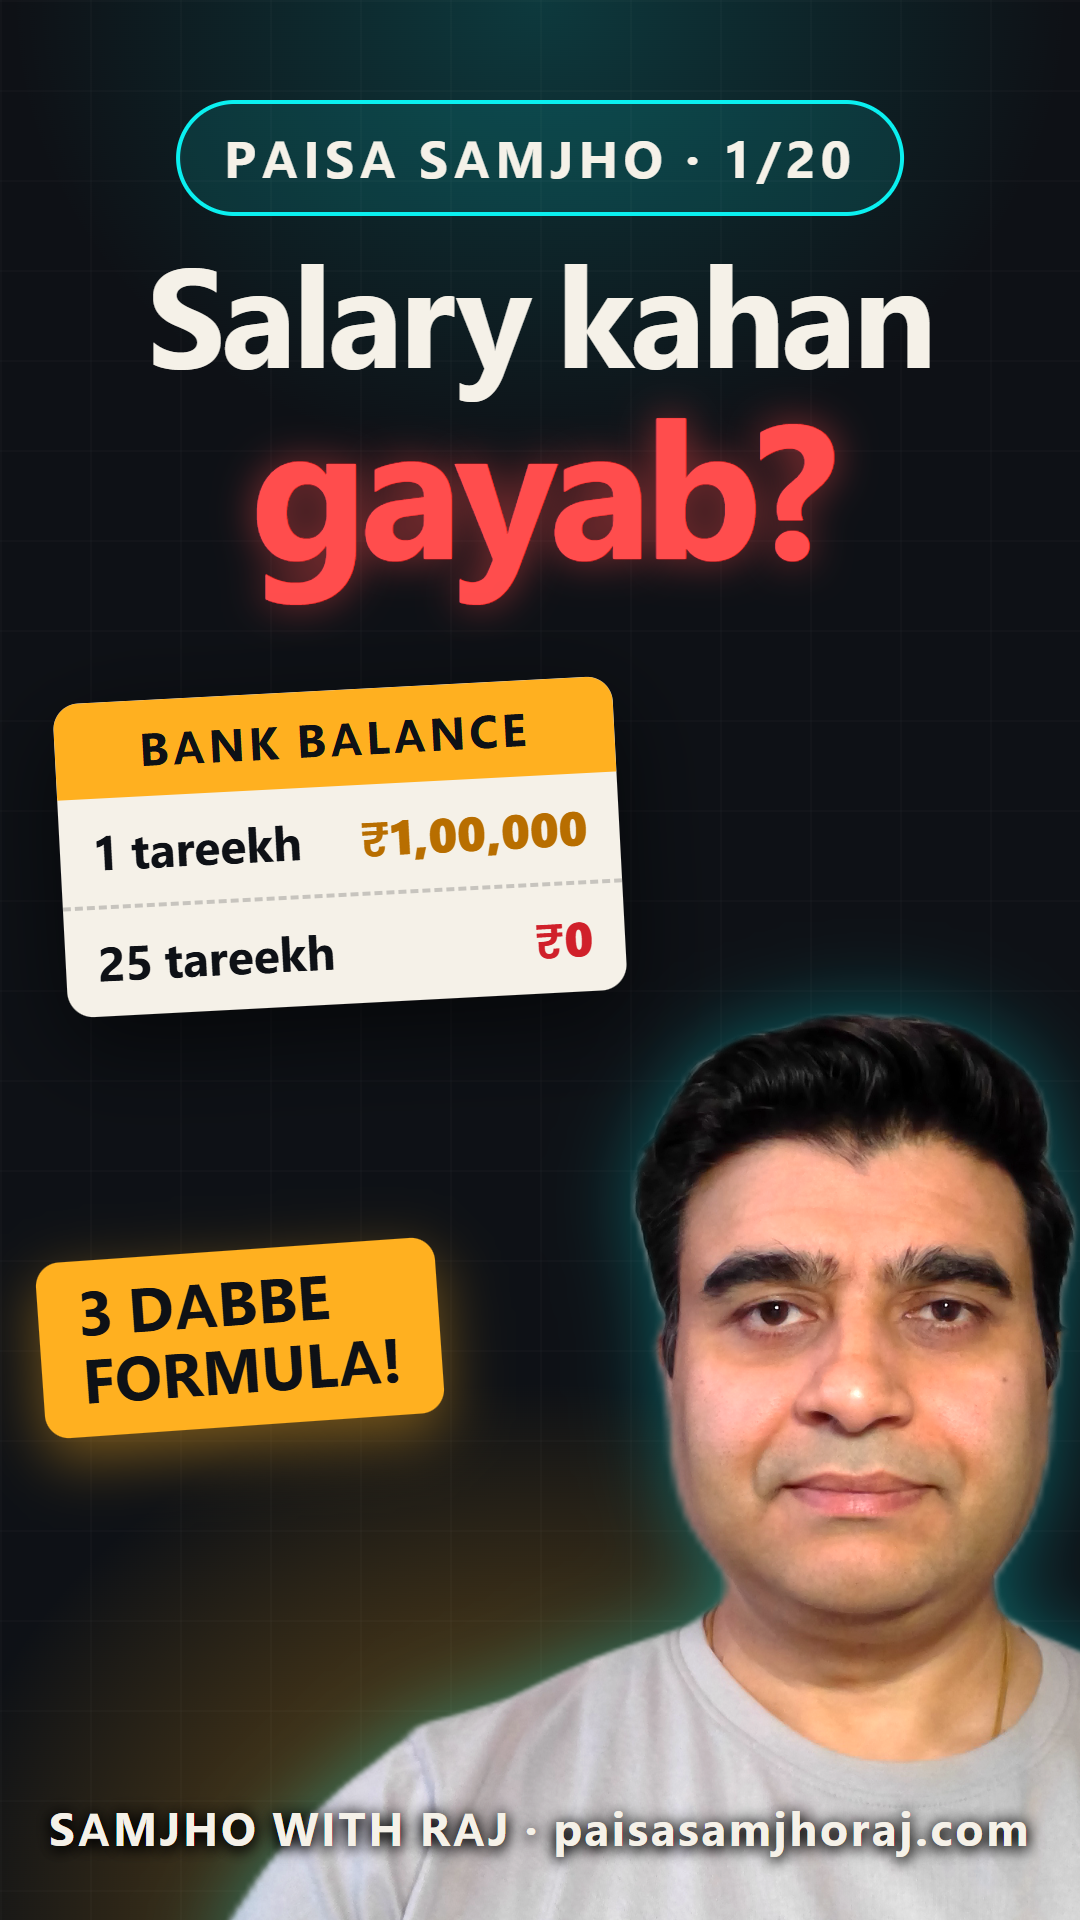
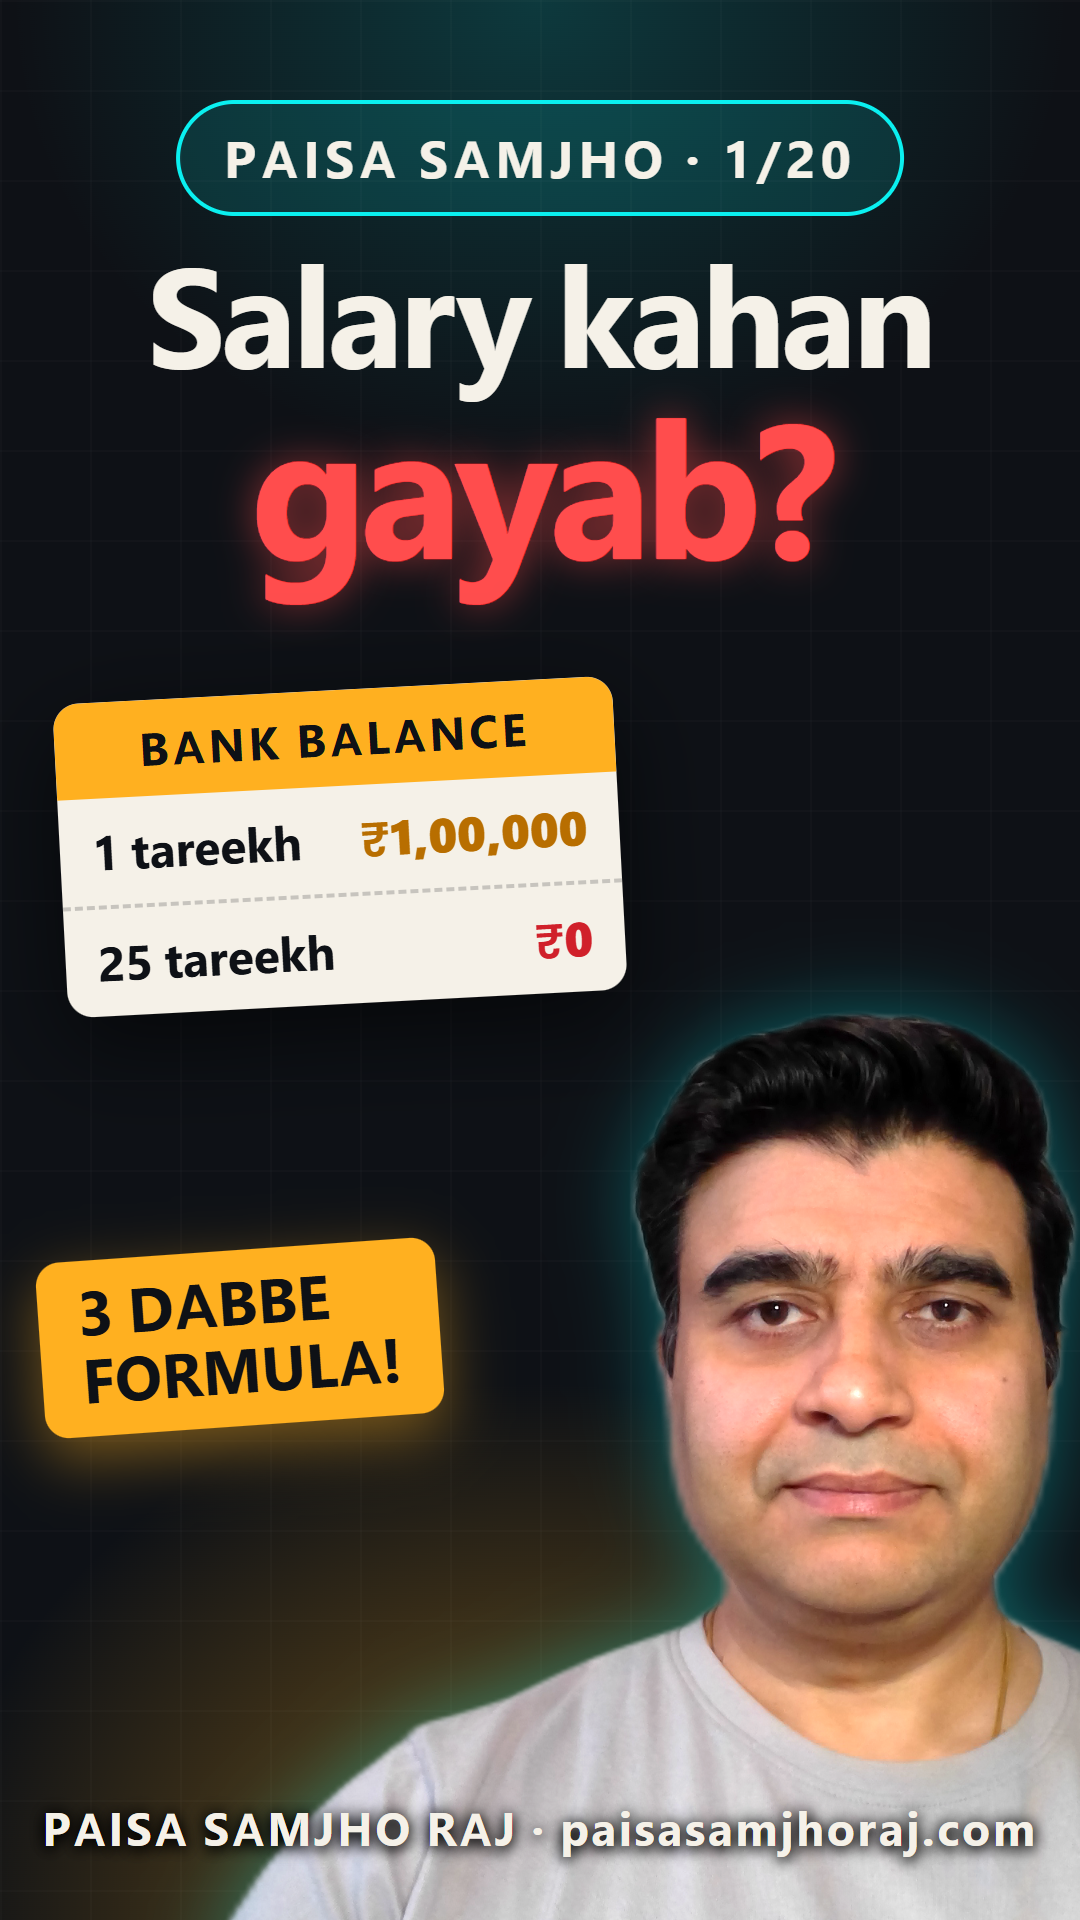
Paisa Samjho Raj channel: Short frame + cover rebrand, Part 1 re-upload kit (-psr renders), Ep 1 reshoot handles

Changed region(s): [[0.0306, 0.9375, 0.9778, 0.9688]]

diff --git a/videos/short-01/thumbnail/cover.html b/videos/short-01/thumbnail/cover.html
@@ -38,5 +38,5 @@
     <div class="row"><span>25 tareekh</span><b class="z">₹0</b></div></div>
   <img id="raj" src="img/raj-cutout.png">
   <div class="badge">3 DABBE<br>FORMULA!</div>
-  <div class="brand">SAMJHO WITH RAJ · paisasamjhoraj.com</div>
+  <div class="brand">PAISA SAMJHO RAJ · paisasamjhoraj.com</div>
 </body></html>

diff --git a/videos/ep01/build-short.py b/videos/ep01/build-short.py
@@ -101,7 +101,7 @@ scene("sE", 30.08, 39.80, '''
 <div id="e-p1" class="h pillx" style="left:120px;top:800px">✗ growth</div>
 <div id="e-p2" class="h pillx" style="left:400px;top:800px">✗ mehngai</div>
 <div id="e-p3" class="h pillx" style="left:700px;top:800px">✗ inflation</div>
-<div id="e-ep" class="h chip2" style="position:absolute;left:180px;top:960px">Asli kharcha: Episode 41 &amp; 46</div>
+<div id="e-ep" class="h chip2" style="position:absolute;left:180px;top:960px">Asli kharcha: Episode 41 &amp; 42</div>
 ''')
 js += ["rise('#e-x',30.3);", "rise('#e-t',30.8);", "rise('#e-p1',34.2);", "rise('#e-p2',35.9);", "rise('#e-p3',37.3);", "rise('#e-ep',38.2);"]
 cap("cE1", "Ye sirf jama rakam hai", {2: "cyan", 3: "cyan"}, 30.2, 34.0)
@@ -145,7 +145,7 @@ pt("p2", 2, "Par kya ye <b>kaafi</b> hai?", 12.04, 17.74)
 pt("p3", 3, "₹12 lakh = <b>sirf jama rakam</b>", 17.74, 39.80)
 pt("p4", 4, "Aaj raat <b>5 goals</b> likho", 39.80, 55.36)
 pt("p5", 5, "Free <b>Money Planner</b>", 55.36, 61.2)
-_cta = "Full episode dekho 👆<small>Full video: Money Plan Part 1 (link upar)</small>" if PLAT == "yt" else        "Poora episode YouTube par<small>Samjho with Raj · Money Plan Part 1</small>"
+_cta = "Full episode dekho 👆<small>Full video: Money Plan Part 1 (link upar)</small>" if PLAT == "yt" else        "Poora episode YouTube par<small>Paisa Samjho Raj · Money Plan Part 1</small>"
 html.append('<div id="p6" class="clip cta" data-start="%.2f" data-duration="%.2f" data-track-index="9">%s</div>' % (M(61.2), M(66.76) - M(61.2), _cta))
 js.append("tl.fromTo('#p6',{opacity:0,scale:.9},{opacity:1,scale:1,duration:.35,ease:'back.out(1.6)'},%.2f);" % (M(61.2) + 10000.1))
 js.append("tl.fromTo('#p6',{scale:1},{scale:1.05,duration:.3,yoyo:true,repeat:3,ease:'power1.inOut'},%.2f);" % (M(62.4) + 10000))
@@ -162,12 +162,12 @@ js.append("tl.to('#fixs',{opacity:0,duration:.3},%.2f);" % (10000 + FLAT - 0.3))
 
 # ---- H. ending 66.76-70.0
 btn = '<span class="btn red">Subscribe</span>' if PLAT == "yt" else '<span class="btn blue">Follow</span>'
-who = '<span class="ico">▶</span><div><div class="endk">YouTube</div><div class="endh">@SamjhowithRaj</div></div>' if PLAT == "yt" else \
-      '<span class="ico ig">◎</span><div><div class="endk">Instagram · Facebook</div><div class="endh">@samjhowithraj</div></div>'
+who = '<span class="ico">▶</span><div><div class="endk">YouTube</div><div class="endh">@PaisaSamjhoRaj</div></div>' if PLAT == "yt" else \
+      '<span class="ico ig">◎</span><div><div class="endk">Instagram · Facebook</div><div class="endh">@paisasamjhoraj</div></div>'
 html.append('''<div id="sH" class="clip endc" data-start="@@END@@" data-duration="3.24" data-track-index="8">
 <div class="endt">Poori details:<br><b class="cyan">Full episode</b> dekho</div>
 <div id="h-b" class="endb">%s%s</div>
-<div class="endw">%s</div></div>''' % (who, btn, ("👆 Upar <b>Money Plan Part 1</b> pe tap karo" if PLAT == "yt" else "YouTube: <b>Samjho with Raj</b> · Money Plan Part 1")))
+<div class="endw">%s</div></div>''' % (who, btn, ("👆 Upar <b>Money Plan Part 1</b> pe tap karo" if PLAT == "yt" else "YouTube: <b>Paisa Samjho Raj</b> · Money Plan Part 1")))
 js += ["tl.fromTo('#sH',{opacity:0},{opacity:1,duration:.35},66.76);", "rise('#h-b',67.1);",
        "tl.fromTo('#h-b .btn',{scale:1},{scale:1.1,duration:.22,yoyo:true,repeat:5,ease:'power1.inOut'},67.6);"]
 

diff --git a/videos/ep01/build-draft.py b/videos/ep01/build-draft.py
@@ -385,7 +385,7 @@ for k, (lab, n, sub, t) in enumerate([("Padhai · ₹10,000 × 10 saal", 1200000
     money_sounds.append(t + 4.6)
 html.append('<div id="j-cap" class="h" style="left:%dpx;top:790px;width:880px;text-align:center;font-size:28px;'
             'color:rgba(255,255,255,.8)">Sirf jama rakam: growth aur mehngai shamil nahi · <b>Illustrative</b></div>' % (L + 20))
-html.append('<div id="j-ep" class="chip h" style="left:%dpx;top:880px;width:680px">Asli kharcha kitna?&nbsp;<b class="cyan">Episode 41 &amp; 46</b></div>' % (CX - 340))
+html.append('<div id="j-ep" class="chip h" style="left:%dpx;top:880px;width:680px">Asli kharcha kitna?&nbsp;<b class="cyan">Episode 41 &amp; 42</b></div>' % (CX - 340))
 js += ["rise('#j-cap',289.0);", "rise('#j-ep',305.0);"]
 stock("j-c1", AI_MOMENTS["salary-sms"], "Amit ne phone ka calculator khola", 285.0, 286.0)
 scene_close()
@@ -727,9 +727,9 @@ page = page.replace('/*WARPDATA*/[]', _json.dumps(WARP))
 ENDCARD = ('<div id="o-end" class="clip endc" data-start="%.2f" data-duration="%.2f" data-track-index="15">'
   '<div class="endt">Video pasand aaya?</div>'
   '<div class="endrow">'
-  '<div id="o-end-yt" class="endb yt"><span class="ico">▶</span><div><div class="endk">YouTube</div><div class="endh">@SamjhowithRaj</div></div><span class="btn red">Subscribe</span></div>'
-  '<div id="o-end-ig" class="endb"><span class="ico ig">◎</span><div><div class="endk">Instagram</div><div class="endh">@samjhowithraj</div></div><span class="btn blue">Follow</span></div>'
-  '<div id="o-end-fb" class="endb"><span class="ico fb">f</span><div><div class="endk">Facebook</div><div class="endh">Samjho with Raj</div></div><span class="btn blue">Follow</span></div>'
+  '<div id="o-end-yt" class="endb yt"><span class="ico">▶</span><div><div class="endk">YouTube</div><div class="endh">@PaisaSamjhoRaj</div></div><span class="btn red">Subscribe</span></div>'
+  '<div id="o-end-ig" class="endb"><span class="ico ig">◎</span><div><div class="endk">Instagram</div><div class="endh">@paisasamjhoraj</div></div><span class="btn blue">Follow</span></div>'
+  '<div id="o-end-fb" class="endb"><span class="ico fb">f</span><div><div class="endk">Facebook</div><div class="endh">Paisa Samjho Raj</div></div><span class="btn blue">Follow</span></div>'
   '</div><div class="endw">Free lessons + Money Planner: <b>paisasamjhoraj.com</b> · Part 2 jaldi!</div></div>') % (END0, FINAL - END0)
 END_JS = ("tl.fromTo('#o-end',{opacity:0},{opacity:1,duration:.5},%.2f);"
           "tl.fromTo('#o-end .endt',{opacity:0,y:30},{opacity:1,y:0,duration:.45,ease:'power2.out'},%.2f);"

diff --git a/videos/short-01/build-short-01.py b/videos/short-01/build-short-01.py
@@ -10,6 +10,7 @@ short/cut-map.json exists and BEATS_ACTUAL (the flat second each beat starts on 
 Rules (memory shorts-performance-rules): payoff/question in frame 1, <= 45-50 s, captions on, end line
 "Part 2 kal, subscribe/follow karo", disclaimer foot note, Every Dawn ducked under the voice (mixed in finish).
 Usage: python build-short-01.py yt|ig   -> short/index.html
+Branding (20 Oct): new channel "Paisa Samjho Raj": YT @PaisaSamjhoRaj, IG/FB @paisasamjhoraj (planned).
 """
 import os, sys, json
 from html import escape
@@ -167,16 +168,16 @@ js += ["rise('#f-t',%.2f);" % at(38.4), "rise('#f-win',%.2f);" % at(38.7),
        "tl.to('#f-hl',{opacity:0,duration:.3},%.2f);" % at(41.0)]
 cap("cF1", "Apne numbers daalo, free!", {3: "cyan"}, 38.3, 42.0)
 cap("cF2", "paisasamjhoraj.com", {0: "cyan"}, 42.0, 45.9)
-_cta = "Part 2 kal 👉<small>Subscribe karo · zaroorat ya pressure?</small>" if PLAT == "yt" else \
-       "Part 2 kal 👉<small>Follow karo · zaroorat ya pressure?</small>"
+_cta = "Part 2 kal 👉<small>Paisa Samjho Raj ko subscribe karo</small>" if PLAT == "yt" else \
+       "Part 2 kal 👉<small>Follow @paisasamjhoraj</small>"
 html.append('<div id="p6" class="clip cta" data-start="%.2f" data-duration="%.2f" data-track-index="9">%s</div>' % (M(41.6), M(46.0) - M(41.6), _cta))
 js.append("tl.fromTo('#p6',{opacity:0,scale:.9},{opacity:1,scale:1,duration:.35,ease:'back.out(1.6)'},%.2f);" % (at(41.6) + 0.1))
 js.append("tl.fromTo('#p6',{scale:1},{scale:1.05,duration:.3,yoyo:true,repeat:3,ease:'power1.inOut'},%.2f);" % at(42.6))
 
 # ---- G. end card (3 s after his last word) -----------------------------------------------------------------------
 btn = '<span class="btn red">Subscribe</span>' if PLAT == "yt" else '<span class="btn blue">Follow</span>'
-who = '<span class="ico">▶</span><div><div class="endk">YouTube</div><div class="endh">@SamjhowithRaj</div></div>' if PLAT == "yt" else \
-      '<span class="ico ig">◎</span><div><div class="endk">Instagram · Facebook</div><div class="endh">@samjhowithraj</div></div>'
+who = '<span class="ico">▶</span><div><div class="endk">YouTube</div><div class="endh">@PaisaSamjhoRaj</div></div>' if PLAT == "yt" else \
+      '<span class="ico ig">◎</span><div><div class="endk">Instagram · Facebook</div><div class="endh">@paisasamjhoraj</div></div>'
 html.append('''<div id="sH" class="clip endc" data-start="%.2f" data-duration="3.00" data-track-index="8">
 <div class="endt">Part 2 <b class="cyan">kal</b>:<br>zaroorat ya <b class="amber">pressure?</b></div>
 <div id="h-b" class="endb">%s%s</div>

diff --git a/videos/ep01/CAPTION.md b/videos/ep01/CAPTION.md
@@ -1,5 +1,7 @@
 # Part 1 — post text
 
+**Reshoot (Sun 25 Oct) posts on the NEW channel "Paisa Samjho Raj"** (YT @PaisaSamjhoRaj, IG/FB @paisasamjhoraj once created; X stays x.com/samjhowithraj). Links below are switched to the new channel; the v1 links above/below are history.
+
 **YouTube long video:** published 16 Oct 2026 (https://youtu.be/FieckKjQgJE), then set to **Private** the same day: Raj is reshooting (low energy, AI video instead of animations, new closed-mouth thumbnail). · Playlist "Middle-Class Family Ka Money Plan 💰 | Personal Finance in Hindi (50 Parts)" (public). YouTube long video (reshoot): **published Public 17 Oct 2026** (https://youtu.be/GyPQ-RxBRi8), end screen 7:40–7:46; old v1 FieckKjQgJE deleted by Raj 17 Oct 2026. YouTube Short: **published Public 17 Oct 2026** (https://youtube.com/shorts/h5MHdj_Zv24), in the series playlist. Instagram Reel: **posted 17 Oct 2026** (https://www.instagram.com/samjhowithraj/reel/DemGUAZyElG/). Facebook Reel: **posted 17 Oct 2026** (https://www.facebook.com/reel/1595616935581819/, share link https://www.facebook.com/share/r/19jzJb2HHD/). X (Twitter) post of the Short: **posted 18 Oct 2026** (https://x.com/samjhowithraj/status/2111590771858305176; text + https://youtube.com/shorts/h5MHdj_Zv24 + paisasamjhoraj.com). Facebook page photo post ("Naya series shuru!", thumbnail + YouTube and Money Planner links): **posted 17 Oct 2026** on https://www.facebook.com/profile.php?id=61595088790170. Reshoot edit delivered 17 Oct 2026 (7:46 with outro), not uploaded yet.
 
 ## YouTube (long video: money-plan-01-yt.mp4)
@@ -54,7 +56,7 @@ Middle-Class Family Ka Money Plan · Part 1/50 💰
 Verma family har mahine ₹31,000 bachati hai. Par padhai ke ₹12 lakh "sirf jama rakam" hai: na growth, na mehngai.
 Apni family ke 5 goals likho, aur free Money Planner try karo 👇
 🧮 Free Money Planner: https://www.paisasamjhoraj.com/#planner
-▶ Poora Part 1: youtube.com/@SamjhowithRaj
+▶ Poora Part 1: youtube.com/@PaisaSamjhoRaj
 📸 Instagram: https://www.instagram.com/samjhowithraj/
 👍 Facebook: https://www.facebook.com/profile.php?id=61595088790170&sk=reels_tab
 Educational example, financial advice nahi. Characters fictional (AI). #shorts #personalfinance #moneyplan
@@ -68,14 +70,14 @@ planning india, emergency fund, saving tips hindi, paisa samjho raj, samjho with
 ₹1 lakh salary. 31% bachat. Kya future set hai? 🤔
 Verma family ka poora money plan, Part 1 se 50 tak 👇
 🧮 Free Money Planner: paisasamjhoraj.com (link in bio)
-▶ Full video: youtube.com/@SamjhowithRaj
+▶ Full video: youtube.com/@PaisaSamjhoRaj
 Educational example, financial advice nahi. Characters fictional (AI).
 #personalfinance #moneyplan #familybudget #financehindi #samjhowithraj
 
 ## Facebook (Reel: same -ig file)
 ₹1 lakh salary mein family ka future kaise banayein? Part 1: Verma family ka hisaab.
 🧮 Free Money Planner: https://www.paisasamjhoraj.com/#planner
-▶ YouTube: https://www.youtube.com/@SamjhowithRaj
+▶ YouTube: https://www.youtube.com/@PaisaSamjhoRaj
 📸 Instagram: https://www.instagram.com/samjhowithraj/
 Educational example, financial advice nahi. Characters fictional (AI).
 #personalfinance #familybudget #moneyplan

diff --git a/videos/short-01/POST-paisa-samjho-raj.md b/videos/short-01/POST-paisa-samjho-raj.md
@@ -1,0 +1,59 @@
+# Paisa Samjho · PART 1/20: re-upload kit for the NEW channel "Paisa Samjho Raj"
+
+**Proposed slot:** Wed 21 Oct 2026, 19:30 IST, the empty money slot. That way the channel starts at Part 1 and Part 2 follows on Thu 22, so "Part 2 kal" stays true. Needs Money PM's slot OK and Raj's posting OK.
+**After it's live:** the main-channel copy (https://youtube.com/shorts/JSuSP7NCd4Q) goes **Private**, not deleted. That's Raj's Studio click, or a Planner Chrome turn.
+**What changed vs the posted v1:** the end card shows YouTube @PaisaSamjhoRaj (yt) / @paisasamjhoraj (ig); the CTA pill says "Paisa Samjho Raj ko subscribe karo"; the cover label says "PAISA SAMJHO RAJ". The edit, voice and music are the same.
+
+## Files
+- YouTube (new channel): `C:\Users\rajpr\Videos\YouTube Renders\paisa-samjho-01\paisa-samjho-01-psr-yt.mp4`
+- IG/FB (only once @paisasamjhoraj exists): `...\paisa-samjho-01\paisa-samjho-01-psr-ig.mp4`
+- Cover: `...\paisa-samjho-01\paisa-samjho-01-psr-cover.png`
+
+## YouTube (channel @PaisaSamjhoRaj)
+- **Title:** Salary kahan gayab ho jaati hai? 30 din ka simple rule | Paisa Samjho Part 1/20 #shorts
+- **Playlist:** Paisa Samjho (create it on the new channel) · **Audience:** not made for kids · **Related video:** none yet (the Ep 1 reshoot, once live)
+- **Tags:** paisa samjho, paisa samjho raj, budget, monthly budget, kharcha, salary, personal finance india, hinglish finance, 50 30 20, savings tips, money plan, middle class family
+- **Description:**
+```
+Free Money Planner: https://www.paisasamjhoraj.com/#planner
+
+1 tareekh ko salary aayi… 25 tareekh tak account khaali? Paisa gaya kahan?
+✅ 30 din, har kharcha likho (₹10 ka bhi)
+✅ Mahine ke end mein 3 dabbe: Zaroori · Saal ke kharche + masti · Future
+Verma family (fictional): ₹58,000 · ₹11,000 · ₹31,000
+
+Part 2 kal: ye kharcha zaroorat hai ya pressure? Paisa Samjho Raj ko subscribe karo!
+
+Financial education, advice nahi. Verma family fictional (AI), numbers illustrative.
+X: x.com/samjhowithraj
+#PaisaSamjho #PaisaSamjhoRaj #MoneyPlan #Budget #PersonalFinance #Hinglish
+```
+
+## Instagram / Facebook (hold until @paisasamjhoraj exists)
+```
+Free Money Planner: paisasamjhoraj.com 👉 link in bio
+
+Salary aati hai… 25 tareekh ko gayab kyun? 🤔
+30 din, har kharcha likho. Phir 3 dabbe: Zaroori · Saal ke kharche · Future.
+Jo kharcha dikhta hai, wahi kam hota hai.
+
+PAISA SAMJHO · PART 1/20. Part 2 kal: zaroorat ya pressure? Follow @paisasamjhoraj!
+Financial education, advice nahi · Verma family fictional (AI)
+#PaisaSamjho #PaisaSamjhoRaj #MoneyPlan #Budget #PersonalFinance
+```
+
+## X (x.com/samjhowithraj): a new post linking the new-channel Short
+```
+Free Money Planner: paisasamjhoraj.com
+
+Naya channel: Paisa Samjho Raj 🎉 Part 1/20: salary 25 tareekh ko gayab kyun? 30 din har kharcha likho, phir 3 dabbe 👇
+<new Short link>
+#PaisaSamjhoRaj #PersonalFinance
+```
+
+## Links (fill in after posting)
+- YouTube (new):
+- Main copy set Private: [ ]
+- Instagram:
+- Facebook:
+- X:
